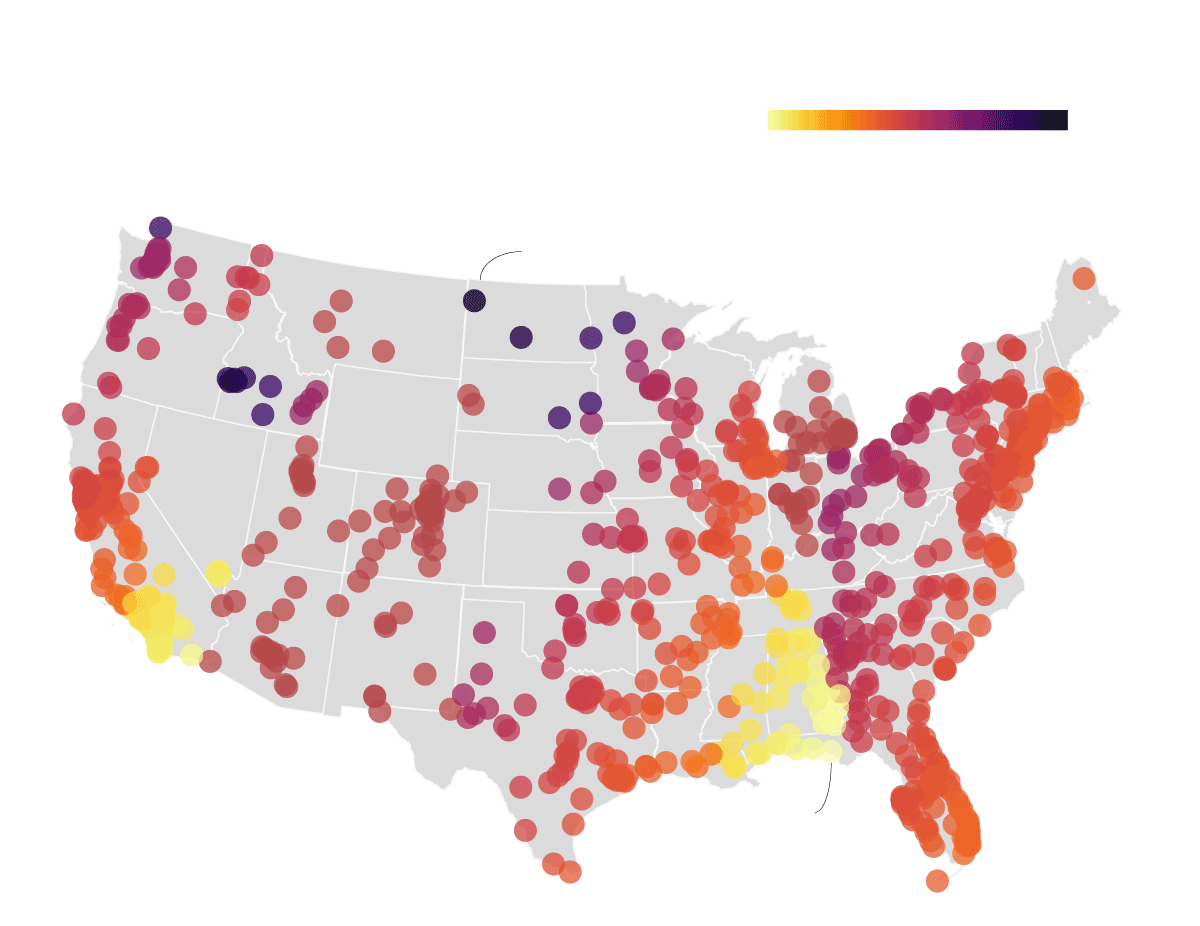
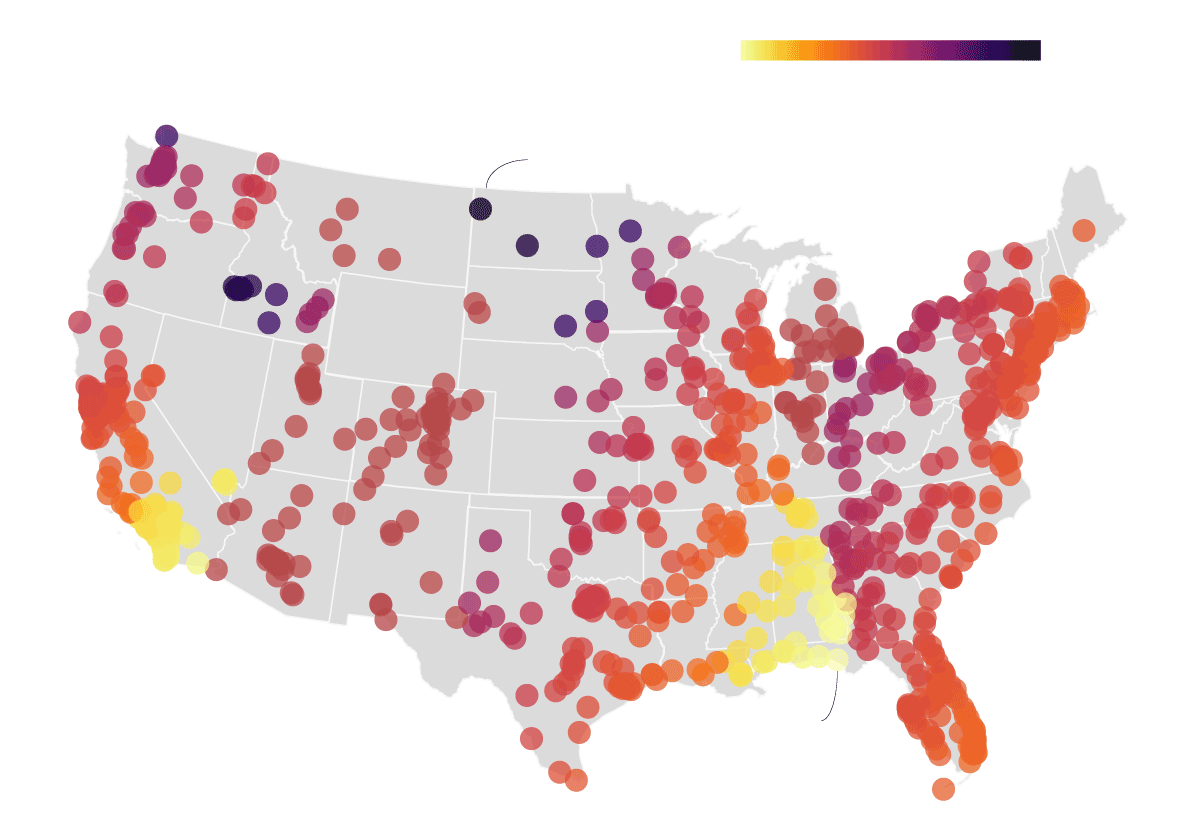
daylight savings fixes

Changed region(s): [[0.0308, 0.1506, 0.9558, 0.9639], [0.6167, 0.0301, 0.8633, 0.0904], [0.6167, 0.1205, 0.8942, 0.1506]]

diff --git a/daylight-saving/index.html b/daylight-saving/index.html
@@ -359,8 +359,9 @@
 		</div>
 		<br>
 		<p>And on Tuesday, the Senate made a stride toward pushing the country toward a nationwide switch to permanent daylight saving time by passing the Sunshine Protection Act, which if approved by the House of Representative and President Joe Biden, would put the country in daylight time year-round, effective 2023. If that were the case, here's what the first day of 2023 might look like, based on sunrise and sunset times on Jan. 1, 2022.</p>
-		<br>		
-		<!-- Generated by ai2html v0.106.0 - 2022-03-16 17:05 -->
+		<br>
+		<p style="font-family:Source Sans Pro;font-weight: bold;">If the U.S. observed nationwide daylight saving time, on Jan. 1, 2022, most cities would have seen sunrise after 8 a.m. and sunsets after 6 p.m.</p>
+		<!-- Generated by ai2html v0.106.0 - 2022-04-09 20:13 -->
 		<!-- ai file: sunrise-map.ai -->
 		<style media="screen,print">
 			#g-sunrise-map-box ,
@@ -390,11 +391,11 @@
 			}
 			#g-sunrise-map-Artboard_1 p {
 				font-weight:500;
-				line-height:12px;
+				line-height:14px;
 				height:auto;
 				opacity:1;
 				letter-spacing:0em;
-				font-size:10px;
+				font-size:12px;
 				text-align:left;
 				color:rgb(0,0,0);
 				text-transform:none;
@@ -403,23 +404,15 @@
 				mix-blend-mode:normal;
 				font-style:normal;
 				position:static;
-				font-family: 'Source Sans Pro', sans-serif;
+				font-family: 'Source Sans Pro';
 			}
 			#g-sunrise-map-Artboard_1 .g-pstyle0 {
-				font-weight:700;
 				line-height:17px;
 				height:17px;
 				font-size:14px;
-				font-family: 'Source Sans Pro', sans-serif;
 			}
 			#g-sunrise-map-Artboard_1 .g-pstyle1 {
-				line-height:17px;
-				height:17px;
-				font-size:14px;
-				font-family: 'Source Sans Pro', sans-serif;
-			}
-			#g-sunrise-map-Artboard_1 .g-pstyle2 {
-				height:12px;
+				height:14px;
 			}
 
 		</style>
@@ -427,44 +420,37 @@
 		<div id="g-sunrise-map-box" class="ai2html">
 
 			<!-- Artboard: Artboard_1 -->
-			<div id="g-sunrise-map-Artboard_1" class="g-artboard" style="max-width: 600px;max-height: 463px" data-aspect-ratio="1.296" data-min-width="0">
-		<div style="padding: 0 0 77.1333% 0;"></div>
+			<div id="g-sunrise-map-Artboard_1" class="g-artboard" style="max-width: 600px;max-height: 415px" data-aspect-ratio="1.446" data-min-width="0">
+		<div style="padding: 0 0 69.1667% 0;"></div>
 				<img id="g-sunrise-map-Artboard_1-img" class="g-aiImg" alt="" src="sunrise-map-Artboard_1.png"/>
-				<div id="g-ai0-1" class="g-Layer_1 g-aiAbs g-aiPointText" style="top:4.392%;margin-top:-9.3px;left:6.1985%;width:519px;">
-					<p class="g-pstyle0">If the U.S. observed nationwide daylight saving time, on Jan. 1, 2022 this is when</p>
+				<div id="g-ai0-1" class="g-Layer_1 g-aiAbs g-aiPointText" style="top:3.6931%;margin-top:-9.3px;left:6.9771%;width:64px;">
+					<p class="g-pstyle0">Sunrise</p>
 				</div>
-				<div id="g-ai0-2" class="g-Layer_1 g-aiAbs g-aiPointText" style="top:8.0653%;margin-top:-9.3px;left:6.1985%;width:282px;">
-					<p class="g-pstyle0">cities would have seen the sun rise and set</p>
+				<div id="g-ai0-2" class="g-Layer_1 g-aiAbs g-aiPointText" style="top:5.9537%;margin-top:-7.7px;left:55.7835%;width:53px;">
+					<p class="g-pstyle1">earlier</p>
 				</div>
-				<div id="g-ai0-3" class="g-Layer_1 g-aiAbs g-aiPointText" style="top:13.2511%;margin-top:-9.3px;left:6.4667%;width:66px;">
-					<p class="g-pstyle1">Sunrise</p>
+				<div id="g-ai0-3" class="g-Layer_1 g-aiAbs g-aiPointText" style="top:5.9537%;margin-top:-7.7px;left:87.7104%;width:44px;">
+					<p class="g-pstyle1">later</p>
 				</div>
-				<div id="g-ai0-4" class="g-Layer_1 g-aiAbs g-aiPointText" style="top:13.092%;margin-top:-6.6px;left:90.1888%;width:41px;">
-					<p class="g-pstyle2">later</p>
+				<div id="g-ai0-4" class="g-Layer_1 g-aiAbs g-aiPointText" style="top:14.1465%;margin-top:-7.7px;left:43.009%;width:190px;">
+					<p class="g-pstyle1">Sunrise could have been as late as </p>
 				</div>
-				<div id="g-ai0-5" class="g-Layer_1 g-aiAbs g-aiPointText" style="top:13.092%;margin-top:-6.6px;left:58.5244%;width:49px;">
-					<p class="g-pstyle2">earlier</p>
+				<div id="g-ai0-5" class="g-Layer_1 g-aiAbs g-aiPointText" style="top:17.0381%;margin-top:-7.7px;left:43.009%;width:195px;">
+					<p class="g-pstyle1">9:42 a.m. in Williston, North Dakota  </p>
 				</div>
-				<div id="g-ai0-6" class="g-Layer_1 g-aiAbs g-aiPointText" style="top:22.8154%;margin-top:-6.6px;left:42.4986%;width:166px;">
-					<p class="g-pstyle2">Sunrise could have been as late as </p>
+				<div id="g-ai0-6" class="g-Layer_1 g-aiAbs g-aiPointText" style="top:89.0863%;margin-top:-7.7px;left:56.9604%;width:127px;">
+					<p class="g-pstyle1">but as early as 7:37 in </p>
 				</div>
-				<div id="g-ai0-7" class="g-Layer_1 g-aiAbs g-aiPointText" style="top:25.4084%;margin-top:-6.6px;left:42.4986%;width:172px;">
-					<p class="g-pstyle2">9:42 a.m. in Williston, North Dakota  </p>
-				</div>
-				<div id="g-ai0-8" class="g-Layer_1 g-aiAbs g-aiPointText" style="top:89.5829%;margin-top:-6.6px;left:57.9587%;width:113px;">
-					<p class="g-pstyle2">but as early as 7:37 in </p>
-				</div>
-				<div id="g-ai0-9" class="g-Layer_1 g-aiAbs g-aiPointText" style="top:92.1759%;margin-top:-6.6px;left:57.9587%;width:108px;">
-					<p class="g-pstyle2">Panama City, Florida</p>
+				<div id="g-ai0-7" class="g-Layer_1 g-aiAbs g-aiPointText" style="top:91.9778%;margin-top:-7.7px;left:56.9604%;width:121px;">
+					<p class="g-pstyle1">Panama City, Florida</p>
 				</div>
 			</div>
 
 		</div>
 
-		<!-- End ai2html - 2022-03-16 17:05 -->
-
-				
-		<!-- Generated by ai2html v0.106.0 - 2022-03-16 17:19 -->
+		<!-- End ai2html - 2022-04-09 20:13 -->
+		
+		<!-- Generated by ai2html v0.106.0 - 2022-04-09 20:13 -->
 		<!-- ai file: sunset-map.ai -->
 		<style media="screen,print">
 			#g-sunset-map-box ,
@@ -494,11 +480,11 @@
 			}
 			#g-sunset-map-Artboard_2 p {
 				font-weight:500;
-				line-height:12px;
+				line-height:14px;
 				height:auto;
 				opacity:1;
 				letter-spacing:0em;
-				font-size:10px;
+				font-size:12px;
 				text-align:left;
 				color:rgb(0,0,0);
 				text-transform:none;
@@ -507,19 +493,15 @@
 				mix-blend-mode:normal;
 				font-style:normal;
 				position:static;
-				font-family: 'Source Sans Pro', sans-serif;
-
+				font-family: 'Source Sans Pro';
 			}
 			#g-sunset-map-Artboard_2 .g-pstyle0 {
 				line-height:17px;
 				height:17px;
 				font-size:14px;
-				font-family: 'Source Sans Pro', sans-serif;
-
 			}
 			#g-sunset-map-Artboard_2 .g-pstyle1 {
-				height:12px;
-				
+				height:14px;
 			}
 
 		</style>
@@ -527,39 +509,38 @@
 		<div id="g-sunset-map-box" class="ai2html">
 
 			<!-- Artboard: Artboard_2 -->
-			<div id="g-sunset-map-Artboard_2" class="g-artboard" style="max-width: 600px;max-height: 463px" data-aspect-ratio="1.296" data-min-width="0">
-		<div style="padding: 0 0 77.1333% 0;"></div>
+			<div id="g-sunset-map-Artboard_2" class="g-artboard" style="max-width: 600px;max-height: 415px" data-aspect-ratio="1.446" data-min-width="0">
+		<div style="padding: 0 0 69.1667% 0;"></div>
 				<img id="g-sunset-map-Artboard_2-img" class="g-aiImg" alt="" src="sunset-map-Artboard_2.png"/>
-				<div id="g-ai0-1" class="g-Layer_1 g-aiAbs g-aiPointText" style="top:12.3868%;margin-top:-9.3px;left:8.7246%;width:61px;">
+				<div id="g-ai0-1" class="g-Layer_1 g-aiAbs g-aiPointText" style="top:6.8256%;margin-top:-9.3px;left:8.7246%;width:61px;">
 					<p class="g-pstyle0">Sunset</p>
 				</div>
-				<div id="g-ai0-2" class="g-Layer_1 g-aiAbs g-aiPointText" style="top:16.9814%;margin-top:-6.6px;left:26.2171%;width:126px;">
-					<p class="g-pstyle1">The earliest sunset would </p>
-				</div>
-				<div id="g-ai0-3" class="g-Layer_1 g-aiAbs g-aiPointText" style="top:19.5743%;margin-top:-6.6px;left:26.2171%;width:126px;">
-					<p class="g-pstyle1">have been at 5:01 p.m., in </p>
-				</div>
-				<div id="g-ai0-4" class="g-Layer_1 g-aiAbs g-aiPointText" style="top:21.0868%;margin-top:-6.6px;left:90.8105%;width:40px;">
+				<div id="g-ai0-2" class="g-Layer_1 g-aiAbs g-aiPointText" style="top:7.8814%;margin-top:-7.7px;left:89.2051%;width:44px;">
 					<p class="g-pstyle1">later</p>
 				</div>
-				<div id="g-ai0-5" class="g-Layer_1 g-aiAbs g-aiPointText" style="top:21.0868%;margin-top:-6.6px;left:58.8231%;width:47px;">
+				<div id="g-ai0-3" class="g-Layer_1 g-aiAbs g-aiPointText" style="top:8.1224%;margin-top:-7.7px;left:57.0508%;width:53px;">
 					<p class="g-pstyle1">earlier</p>
 				</div>
-				<div id="g-ai0-6" class="g-Layer_1 g-aiAbs g-aiPointText" style="top:22.1672%;margin-top:-6.6px;left:26.2171%;width:108px;">
+				<div id="g-ai0-4" class="g-Layer_1 g-aiAbs g-aiPointText" style="top:11.9778%;margin-top:-7.7px;left:26.2171%;width:147px;">
+					<p class="g-pstyle1">The earliest sunset would </p>
+				</div>
+				<div id="g-ai0-5" class="g-Layer_1 g-aiAbs g-aiPointText" style="top:14.8694%;margin-top:-7.7px;left:26.2171%;width:147px;">
+					<p class="g-pstyle1">have been at 5:01 p.m., in </p>
+				</div>
+				<div id="g-ai0-6" class="g-Layer_1 g-aiAbs g-aiPointText" style="top:17.761%;margin-top:-7.7px;left:26.2171%;width:125px;">
 					<p class="g-pstyle1">Bonners Ferry, Idaho </p>
 				</div>
-				<div id="g-ai0-7" class="g-Layer_1 g-aiAbs g-aiPointText" style="top:84.181%;margin-top:-6.6px;left:22.8649%;width:126px;">
+				<div id="g-ai0-7" class="g-Layer_1 g-aiAbs g-aiPointText" style="top:88.1224%;margin-top:-7.7px;left:21.6982%;width:147px;">
 					<p class="g-pstyle1">and the latest as 6:58 p.m.</p>
 				</div>
-				<div id="g-ai0-8" class="g-Layer_1 g-aiAbs g-aiPointText" style="top:86.774%;margin-top:-6.6px;left:22.8649%;width:90px;">
+				<div id="g-ai0-8" class="g-Layer_1 g-aiAbs g-aiPointText" style="top:91.014%;margin-top:-7.7px;left:21.6982%;width:104px;">
 					<p class="g-pstyle1">in Odessa, Texas </p>
 				</div>
 			</div>
 
 		</div>
 
-		<!-- End ai2html - 2022-03-16 17:19 -->
-
+		<!-- End ai2html - 2022-04-09 20:13 -->
 
 			</div>
 		</div>
